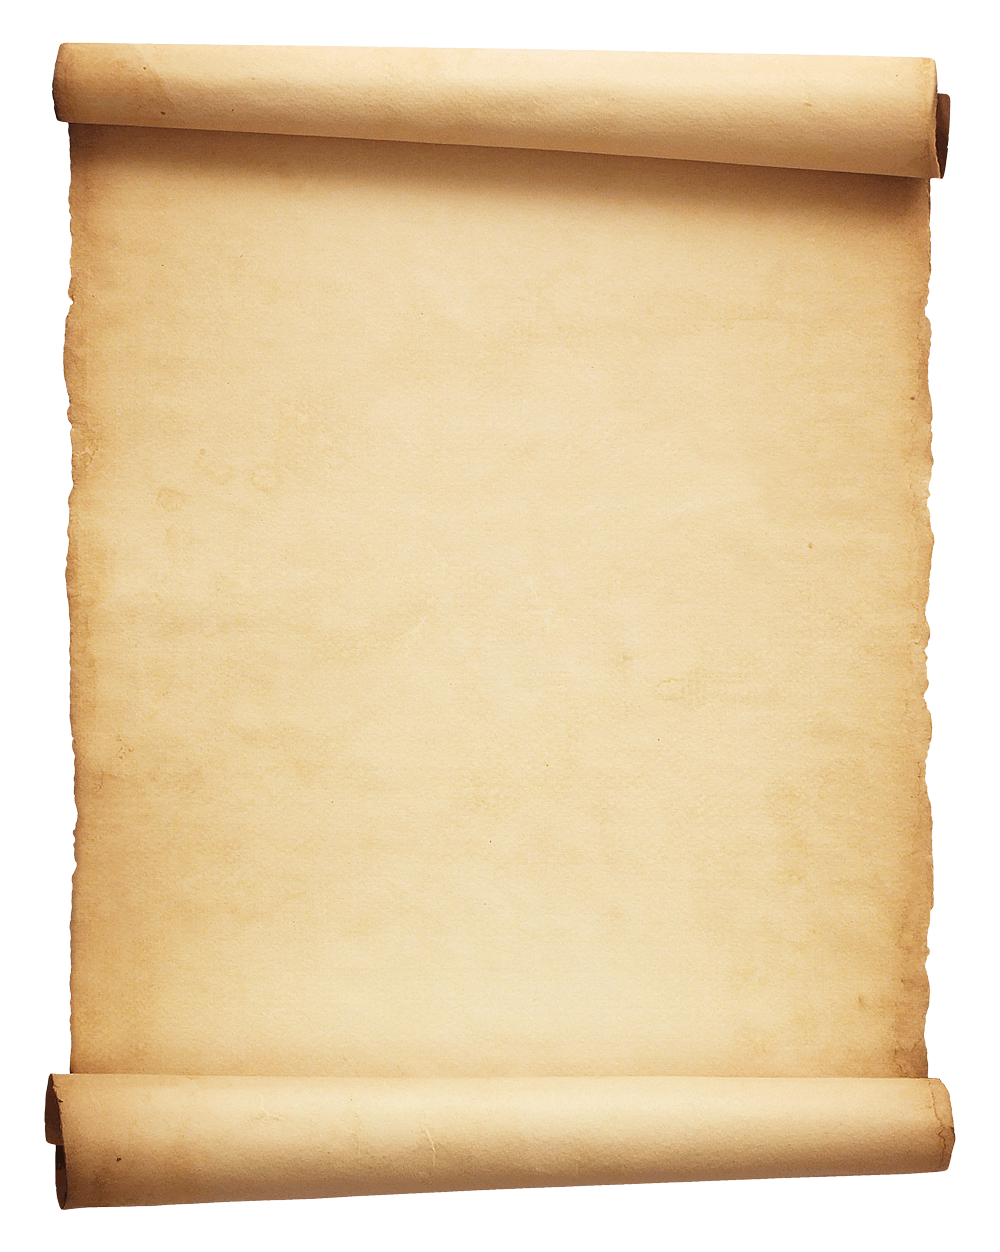
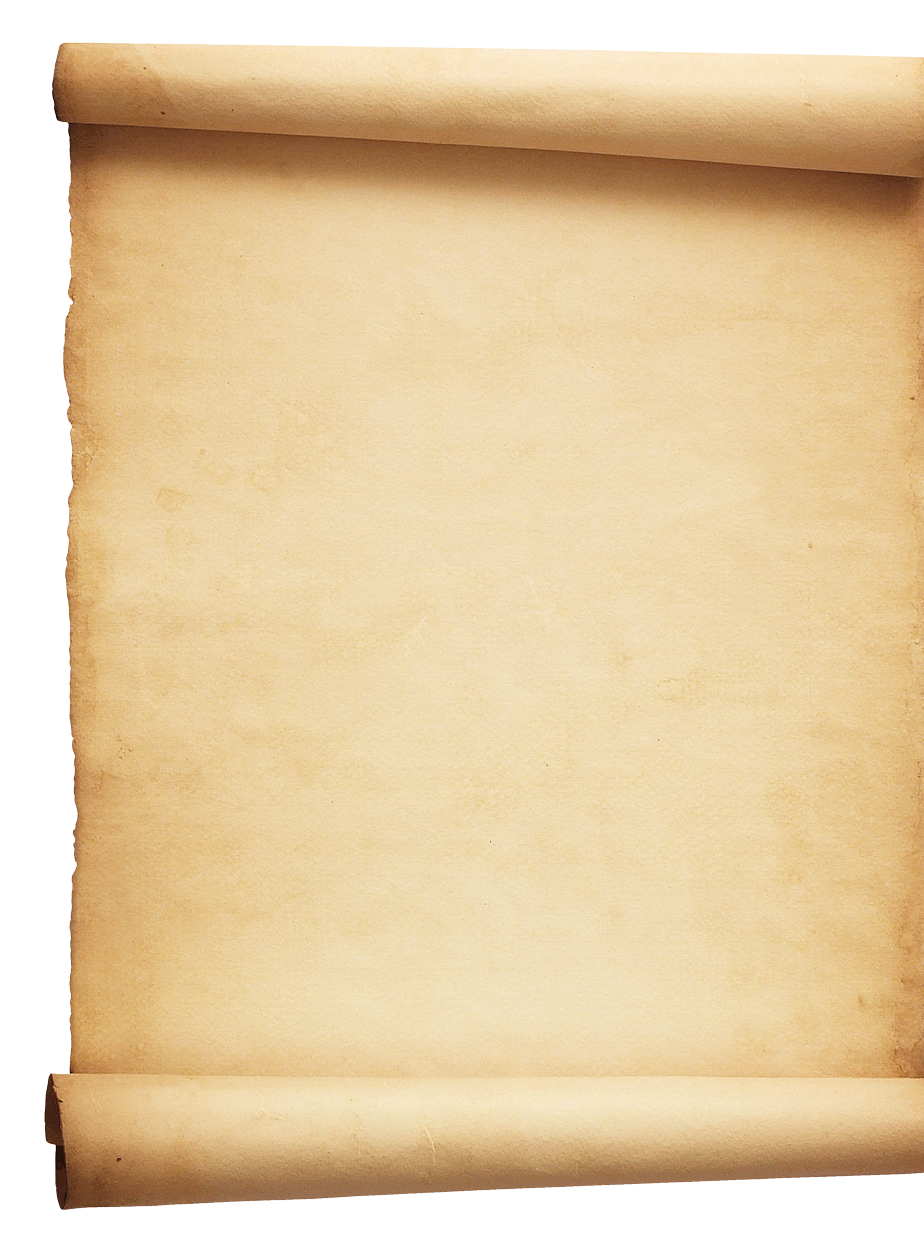
refinando o front

diff --git a/DicioApp/templates/home.html b/DicioApp/templates/home.html
@@ -16,27 +16,28 @@
 </head>
 <body>
     <div class="image-container">
-        <img class="half-image-left" src="{% static 'img/sala3.png' %}">
-        <img class="half-image-right" src="{% static 'img/scrollcopy.png' %}">
+        <img class="half-image-left" src="{% static 'img/sala.png' %}">
+        <img class="half-image-right" src="{% static 'img/scroll.png' %}">
         <div class="text-overlay">
             <div class="col-9 search-div"> 
                 <form method="GET">
                     <div class="input-group">
                         <input class="form-control" name="search" type="search" placeholder="Diga a palavra que quer saber o significado" value="{{request.GET.search}}">
                         <div class="input-group-append">
-                            <button class="btn btn-outline-secondary" type="submit">
+                            <button class="btn btn-secondary" type="submit">
                                 <i class="fa fa-search" aria-hidden="true"></i>
                             </button>
                         </div>
                     </div>
                 </form>
             </div>
-                
+             {% if tem_pesquisa %}   
             <br>
             <p> <strong>Palavra</strong>: {{request.GET.search}} </p>
-            <p><strong>Significado</strong>: {% if word.meaning %}{{ word.meaning }}{% else %}(sem informações){% endif %}</p>
-            <p><strong>Sinônimos</strong>: {% if word.synonyms %}{{ word.synonyms|join:", " }}{% else %}(sem informações){% endif %}</p>
-            <p><strong>Frases</strong>: {% if word.examples %}{{ word.examples|join:".<br>" }}{% else %}(sem informações){% endif %}</p>
+            <p><strong>Significado</strong>: {% if word.meaning %}{{ word.meaning }}{% else %}(Nenhum significado encontrado){% endif %}</p>
+            <p><strong>Sinônimos</strong>: {% if word.synonyms %}{{ word.synonyms|join:", " }}{% else %}(Nenhum sinônimo encontrado){% endif %}</p>
+            <p><strong>Frases</strong>: {% if word.examples %}{{ word.examples|join:".<br>" }}{% else %}(Nenhuma frase de exemplo encontrada){% endif %}</p>
+            {% endif %}
         </div>
     </div>
 </body>

diff --git a/disseonario/static/css/home.css b/disseonario/static/css/home.css
@@ -14,7 +14,7 @@ html, body {
     position: fixed;
     top: 0;
     left: 0;
-    width: 45%;
+    width: 50%;
     height: 100%;
     object-fit: cover;
   }
@@ -22,7 +22,7 @@ html, body {
     position: fixed;
     top: 0;
     right: 0;
-    width: 60%;
+    width: 57%;
     height: 100%;
     object-fit: cover;
   }
@@ -40,3 +40,6 @@ html, body {
     top: 12px;
     right: 26px;
   }
+  .form-control {
+    background-color: #fcf2e4; /* Substitua pelo código da cor desejada */
+}

diff --git a/DicioApp/views.py b/DicioApp/views.py
@@ -7,7 +7,9 @@ def Home(request):
     dicio = Dicio()
     search = request.GET.get('search')
     if search:
-        word = dicio.search(search)   
-        return (render(request, 'home.html', {'word': word}))
+        word = dicio.search(search)
+        tem_pesquisa = 1
+        return (render(request, 'home.html', {'word': word, 'tem_pesquisa': tem_pesquisa}))
     else:
-        return (render(request, 'home.html'))
+        tem_pesquisa = 0
+        return (render(request, 'home.html', {'tem_pesquisa': tem_pesquisa}))
